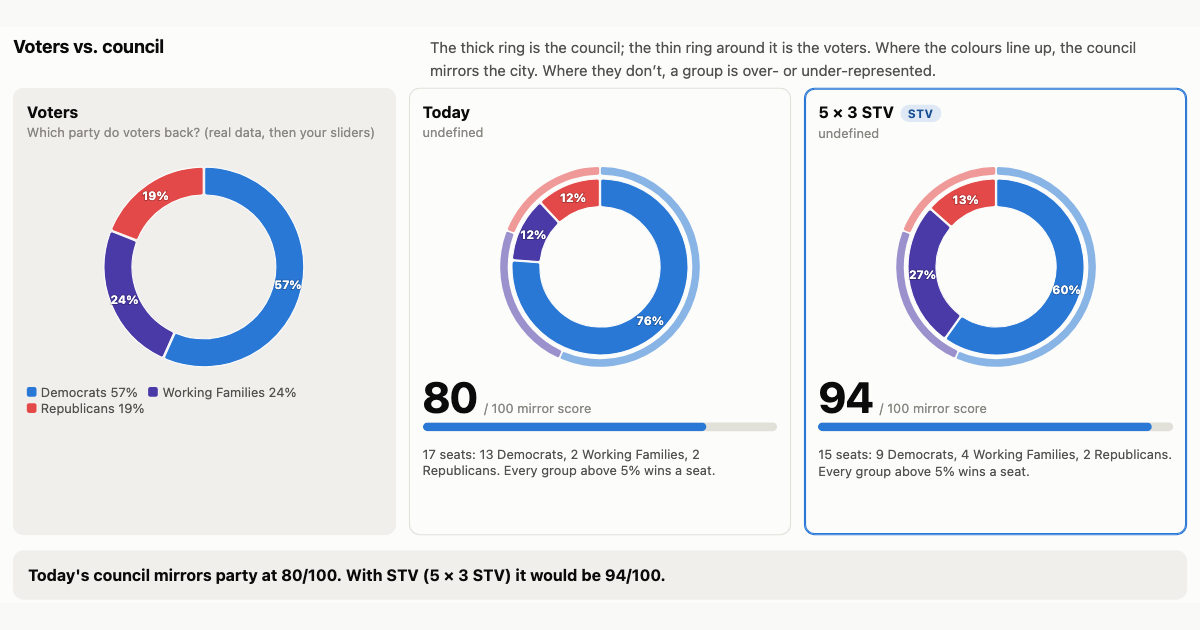
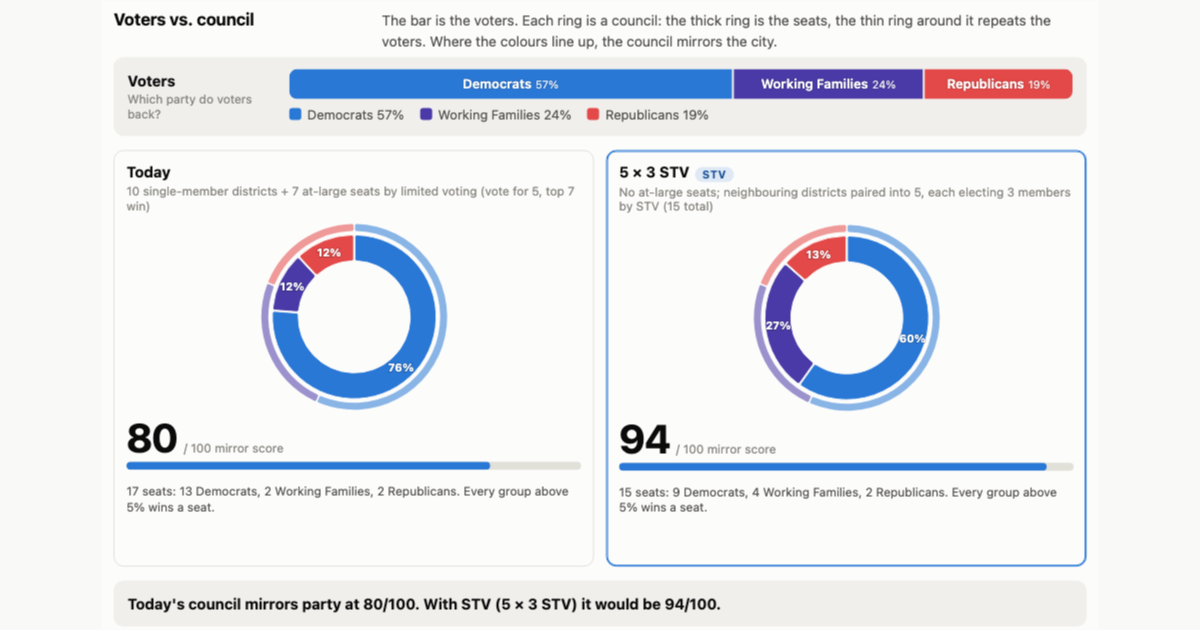
animate and make interaction easier

Changed region(s): [[0.0, 0.0302, 1.0, 0.9952], [0.0, 0.0, 0.2158, 0.0905], [0.8942, 0.2413, 0.925, 0.2714]]

diff --git a/site/src/main.js b/site/src/main.js
@@ -83,7 +83,7 @@ function methodCards(el, selected, onChange) {
     const contests = sys.build();
     const districtSeats = contests.filter(c => c.districts.length < 10).reduce((n, c) => n + c.seats, 0);
     const atLarge = contests.filter(c => c.districts.length === 10).reduce((n, c) => n + c.seats, 0);
-    const b = document.createElement('button'); b.className = 'method-card'; b.type = 'button';
+    const b = document.createElement('button'); b.className = 'method-card'; b.type = 'button'; b.dataset.toggle = `system:${sys.id}`;
     const on = selected.includes(sys.id); b.setAttribute('aria-pressed', String(on));
     const seatsText = atLarge ? `${districtSeats} district seats + ${atLarge} at-large = ${districtSeats + atLarge} members` : `${districtSeats} members, all from districts`;
     const bars = contests.map(c => `<i class="${c.method === 'stv' ? 'stv' : ''}" style="flex:${c.seats}" title="${c.name}: ${c.seats} seat${c.seats > 1 ? 's' : ''} (${c.method === 'stv' ? 'ranked choice' : c.method === 'limited' ? 'vote for 5, top 7 win' : 'winner takes all'})"></i>`).join('');
@@ -100,7 +100,7 @@ function methodCards(el, selected, onChange) {
 function toggleChips(el, items, selected, onChange, { minOne = true } = {}) {
   el.innerHTML = '';
   for (const it of items) {
-    const b = document.createElement('button'); b.className = 'chip'; b.type = 'button'; b.textContent = it.label; b.title = it.title || '';
+    const b = document.createElement('button'); b.className = 'chip'; b.type = 'button'; b.textContent = it.label; b.title = it.title || ''; b.dataset.toggle = `chart:${it.id}`;
     const on = selected.includes(it.id); b.setAttribute('aria-pressed', String(on));
     b.addEventListener('click', () => {
       let next = on ? selected.filter(x => x !== it.id) : items.map(i => i.id).filter(id => id === it.id || selected.includes(id));
@@ -109,6 +109,48 @@ function toggleChips(el, items, selected, onChange, { minOne = true } = {}) {
     });
     el.appendChild(b);
   }
+}
+
+/* ---- change feedback: fly a new card/chart out of the button that created it, and back into it when removed ---- */
+const reduceMotion = () => window.matchMedia('(prefers-reduced-motion: reduce)').matches;
+const targetFor = (kind, id) => kind === 'system' ? document.querySelector(`#viz-headline .card[data-system="${id}"]`) || document.querySelector('#results') : document.querySelector(`#viz-${id}`);
+const buttonFor = (kind, id) => document.querySelector(`[data-toggle="${kind}:${id}"]`);
+function flyIn(kind, id) {
+  const to = targetFor(kind, id), from = buttonFor(kind, id);
+  if (!to || !from || reduceMotion()) return;
+  const a = from.getBoundingClientRect(), b = to.getBoundingClientRect();
+  if (b.width === 0) return;
+  to.animate([
+    { transform: `translate(${a.left - b.left}px, ${a.top - b.top}px) scale(${Math.max(0.05, a.width / b.width)}, ${Math.max(0.05, a.height / b.height)})`, opacity: 0.2 },
+    { transform: 'none', opacity: 1 },
+  ], { duration: 520, easing: 'cubic-bezier(.2,.8,.2,1)' });
+  to.style.transformOrigin = 'top left';
+}
+function flyOut(kind, id) {
+  const el = targetFor(kind, id), from = buttonFor(kind, id);
+  if (!el || !from || reduceMotion()) return;
+  const b = el.getBoundingClientRect(), a = from.getBoundingClientRect();
+  const clone = el.cloneNode(true); clone.classList.add('fly-clone');
+  Object.assign(clone.style, { left: b.left + 'px', top: b.top + 'px', width: b.width + 'px', height: b.height + 'px', margin: 0 });
+  document.body.appendChild(clone);
+  clone.animate([
+    { transform: 'none', opacity: 1 },
+    { transform: `translate(${a.left - b.left}px, ${a.top - b.top}px) scale(${Math.max(0.05, a.width / b.width)}, ${Math.max(0.05, a.height / b.height)})`, opacity: 0 },
+  ], { duration: 420, easing: 'cubic-bezier(.4,0,.8,.4)' }).onfinish = () => clone.remove();
+}
+function pulseResults() {
+  const p = document.querySelector('#results'); if (!p || reduceMotion()) return;
+  p.classList.remove('pulse'); void p.offsetWidth; p.classList.add('pulse');
+}
+function applySelection(kind, next) {
+  const key = kind === 'system' ? 'systems' : 'charts';
+  const prev = state[key];
+  const removed = prev.filter(id => !next.includes(id)), added = next.filter(id => !prev.includes(id));
+  for (const id of removed) flyOut(kind, id);
+  state[key] = next;
+  render({ controls: false });
+  for (const id of added) flyIn(kind, id);
+  pulseResults();
 }
 
 let rafId = 0, cityCtl = null, districtCtl = null;
@@ -122,10 +164,10 @@ const handlers = {
 function render({ controls = true } = {}) {
   const ctx = context();
   writeHash();
-  methodCards($('#system-chips'), state.systems, next => { state.systems = next; render({ controls: false }); });
-  toggleChips($('#chart-chips'), allViz().map(v => ({ id: v.id, label: v.title })), state.charts, next => { state.charts = next; render({ controls: false }); });
+  methodCards($('#system-chips'), state.systems, next => applySelection('system', next));
+  toggleChips($('#chart-chips'), allViz().map(v => ({ id: v.id, label: v.title })), state.charts, next => applySelection('chart', next));
   if (controls) {
-    renderTypeChips($('#type-chips'), state, id => { loadType(id); render(); });
+    renderTypeChips($('#type-chips'), state, id => { loadType(id); render(); pulseResults(); });
     $('#type-note').textContent = ctx.inputType.note || '';
     cityCtl = mountCityControls($('#city-controls'), ctx, handlers);
     districtCtl = mountDistrictControls($('#district-controls'), ctx, handlers);

diff --git a/site/src/styles.css b/site/src/styles.css
@@ -57,8 +57,8 @@ a { color: var(--accent-ink); }
 /* composition bar + sliders */
 .city-controls { display: grid; gap: 14px; }
 .comp-bar { display: flex; height: 34px; border-radius: 8px; overflow: hidden; gap: 2px; background: var(--surface); }
-.comp-bar .seg { display: grid; place-items: center; color: #fff; font-size: 13px; font-weight: 600; min-width: 0; overflow: hidden; white-space: nowrap; text-shadow: 0 0 2px rgba(0,0,0,.35); transition: flex .15s; }
-.comp-bar .seg small { font-weight: 400; opacity: .9; margin-left: 4px; }
+.comp-bar .seg { container-type: inline-size; display: flex; align-items: center; justify-content: center; gap: 4px; color: #fff; font-size: 13px; font-weight: 600; min-width: 0; overflow: hidden; white-space: nowrap; text-shadow: 0 0 2px rgba(0,0,0,.35); transition: flex .15s; }
+.comp-bar .seg small { font-weight: 400; opacity: .9; }
 .slider-grid { display: grid; grid-template-columns: repeat(auto-fit, minmax(230px, 1fr)); gap: 10px 22px; }
 .slider-row { display: grid; grid-template-columns: 14px 1fr 3.2em; align-items: center; gap: 10px; font-size: 14px; }
 .slider-row .swatch { width: 14px; height: 14px; border-radius: 4px; }
@@ -186,3 +186,35 @@ select.sel { font: inherit; font-size: 14px; padding: 4px 8px; border-radius: 8p
 .seatbar-key { margin: -6px 0 12px; }
 .seatbar-key i.k { display: inline-block; width: 18px; height: 8px; border-radius: 2px; background: var(--axis); vertical-align: middle; }
 .seatbar-key i.k.stv { background: var(--accent); }
+
+/* two-column layout: controls stay in view on the left while results update on the right */
+@media (min-width: 1100px) {
+  .layout { display: grid; grid-template-columns: 400px minmax(0, 1fr); gap: 0 22px; align-items: start; max-width: 1400px; }
+  .controls-col { position: sticky; top: 0; max-height: 100vh; overflow-y: auto; padding-top: 22px; margin-top: -22px; scrollbar-width: thin; }
+  .controls-col .panel { padding: 18px 16px 14px; }
+  .controls-col h2 { font-size: 21px; }
+  .controls-col .step { width: 26px; height: 26px; font-size: 13px; }
+  .controls-col .method-cards { grid-template-columns: 1fr; gap: 8px; }
+  .controls-col .method-card { padding: 10px 12px 10px 36px; }
+  .controls-col .method-card .desc { font-size: 12.5px; }
+  .controls-col .slider-grid { grid-template-columns: 1fr; }
+  .controls-col .district-grid { grid-template-columns: 1fr; }
+  .results-col .cards { grid-template-columns: repeat(auto-fit, minmax(160px, 1fr)); }
+}
+/* change feedback */
+@keyframes results-pulse { 0% { box-shadow: 0 0 0 0 color-mix(in oklab, var(--accent) 45%, transparent); } 100% { box-shadow: 0 0 0 14px transparent; } }
+.panel.pulse { animation: results-pulse .7s ease-out; }
+.fly-clone { position: fixed; z-index: 50; pointer-events: none; transform-origin: top left; border-radius: 12px; overflow: hidden; }
+@media (prefers-reduced-motion: reduce) { .panel.pulse { animation: none; } }
+
+/* voters strip above the council cards */
+.voters-strip { display: grid; grid-template-columns: 150px minmax(0, 1fr); gap: 12px; align-items: start; margin-bottom: 14px; padding: 12px 14px; border-radius: 10px; background: var(--surface-2); }
+.voters-label b { display: block; font-size: 15px; }
+.voters-label span { font-size: 12px; color: var(--muted); line-height: 1.25; display: block; }
+.voters-bar .comp-bar { height: 30px; background: transparent; }
+.voters-bar .legend { margin-top: 6px; }
+@media (max-width: 640px) { .voters-strip { grid-template-columns: 1fr; gap: 6px; } }
+.cards { grid-template-columns: repeat(auto-fit, minmax(180px, 1fr)); }
+/* bar labels: drop the name, then the number, as a segment gets narrow */
+@container (max-width: 96px) { .comp-bar .seg .nm { display: none; } }
+@container (max-width: 34px) { .comp-bar .seg small { display: none; } }

diff --git a/site/src/viz/headline.js b/site/src/viz/headline.js
@@ -1,5 +1,6 @@
 import { registerViz, tooltip, pct } from './registry.js';
 import { surface } from './palette.js';
+import { compBar } from '../ui/controls.js';
 
 function donut(el, groups, values, colors, { size = 190, thickness = 26, label, reference } = {}) {
   const d3 = window.d3;
@@ -35,22 +36,25 @@ function donut(el, groups, values, colors, { size = 190, thickness = 26, label, 
 registerViz({
   id: 'headline', order: 10,
   title: 'Voters vs. council',
-  lede: 'The thick ring is the council; the thin ring around it is the voters. Where the colours line up, the council mirrors the city. Where they don’t, a group is over- or under-represented.',
+  lede: 'The bar is the voters. Each ring is a council: the thick ring is the seats, the thin ring around it repeats the voters. Where the colours line up, the council mirrors the city.',
   render(el, ctx) {
     const { groups, colors, city, results, inputType, totalPeople } = ctx;
+    // voters: one full-width bar (same as the slider bar in step 2), clearly not a council
+    const strip = document.createElement('div'); strip.className = 'voters-strip';
+    const lab = document.createElement('div'); lab.className = 'voters-label';
+    lab.innerHTML = `<b>Voters</b><span>${inputType.question}</span>`;
+    const barWrap = document.createElement('div'); barWrap.className = 'voters-bar';
+    barWrap.appendChild(compBar(groups, city, colors));
+    const keys = document.createElement('div'); keys.className = 'legend';
+    keys.innerHTML = groups.map(g => `<span class="key"><i style="background:${colors[g]}"></i>${g} ${pct(city[g])}</span>`).join('');
+    barWrap.appendChild(keys);
+    strip.append(lab, barWrap);
+    el.appendChild(strip);
     const cards = document.createElement('div'); cards.className = 'cards';
-    // voters
-    const vc = document.createElement('div'); vc.className = 'card voters';
-    vc.innerHTML = `<h4>Voters</h4><div class="sub">${inputType.question} (real data, then your sliders)</div>`;
-    donut(vc, groups, city, colors, { label: '' });
-    const vl = document.createElement('div'); vl.className = 'foot';
-    vl.innerHTML = groups.map(g => `<span style="white-space:nowrap"><i style="display:inline-block;width:9px;height:9px;border-radius:2px;background:${colors[g]};margin-right:4px"></i>${g} ${pct(city[g])}</span>`).join(' &nbsp; ');
-    vc.appendChild(vl);
-    cards.appendChild(vc);
     const best = Math.max(...results.filter(r => r.system.stv).map(r => r.metrics.match), -1);
     for (const r of results) {
-      const c = document.createElement('div'); c.className = 'card' + (r.system.stv && r.metrics.match === best ? ' best' : '');
-      c.innerHTML = `<h4>${r.system.short}${r.system.stv ? '<span class="stv-tag">STV</span>' : ''}</h4><div class="sub">${r.system.summary}</div>`;
+      const c = document.createElement('div'); c.className = 'card' + (r.system.stv && r.metrics.match === best ? ' best' : ''); c.dataset.system = r.system.id;
+      c.innerHTML = `<h4>${r.system.short}${r.system.stv ? '<span class="stv-tag">STV</span>' : ''}</h4><div class="sub">${r.system.summary ?? r.system.detail ?? ''}</div>`;
       const seatCounts = Object.fromEntries(groups.map(g => [g, r.seats[g]]));
       donut(c, groups, seatCounts, colors, { label: 'seats', reference: city });
       const score = document.createElement('div'); score.className = 'score';

diff --git a/site/src/viz/seats.js b/site/src/viz/seats.js
@@ -39,7 +39,9 @@ registerViz({
       m.innerHTML = `<h4>${r.system.short}${r.system.stv ? '<span class="stv-tag">STV</span>' : ''}</h4><p class="sub">${r.totalSeats} seats · mirror score ${r.metrics.match}</p>`;
       const W = 220; const { pts, dot, height } = hemicycle(r.totalSeats, W);
       const seatList = groups.flatMap(g => Array(r.seats[g]).fill(g));
-      const svg = d3.select(m).append('svg').attr('viewBox', `0 0 ${W} ${height}`).attr('role', 'img');
+      // pad the viewBox by one dot radius so the outer seats are never clipped
+      const pad = dot + 2;
+      const svg = d3.select(m).append('svg').attr('viewBox', `${-pad} ${-pad} ${W + 2 * pad} ${height + pad}`).attr('role', 'img');
       svg.selectAll('circle').data(pts.map((p, i) => ({ ...p, g: seatList[i] }))).join('circle')
         .attr('cx', d => d.x).attr('cy', d => d.y).attr('r', dot).attr('fill', d => colors[d.g]).attr('stroke', 'var(--surface)').attr('stroke-width', 1.5)
         .on('mousemove', (ev, d) => tip.show(`<b>${d.g}</b> seat · ${r.seats[d.g]} of ${r.totalSeats} (${pct(r.seats[d.g] / r.totalSeats)}); voters ${pct(city[d.g], 1)}`, ev)).on('mouseleave', () => tip.hide());

diff --git a/site/src/ui/controls.js b/site/src/ui/controls.js
@@ -13,7 +13,7 @@ export function renderTypeChips(el, state, onSelect) {
   }
 }
 
-function compBar(groups, shares, colors, showLabels = true) {
+export function compBar(groups, shares, colors, showLabels = true) {
   const bar = document.createElement('div'); bar.className = 'comp-bar';
   for (const g of groups) {
     const seg = document.createElement('div'); seg.className = 'seg'; seg.dataset.group = g; seg.style.background = colors[g];
@@ -27,7 +27,7 @@ function updateCompBar(bar, groups, shares, showLabels) {
     const g = seg.dataset.group, v = Math.max(shares[g], 0);
     seg.style.flex = `${v} 0 0`; seg.title = `${g}: ${pct(v, 1)}`;
     if (!showLabels) continue;
-    seg.innerHTML = v > 0.08 ? `${g}<small>${pct(v)}</small>` : v > 0.04 ? `<small>${pct(v)}</small>` : '';
+    seg.innerHTML = `<span class="nm">${g}</span><small>${pct(v)}</small>`; // visibility is decided by segment width in CSS
   }
 }
 

diff --git a/site/src/viz/map.js b/site/src/viz/map.js
@@ -17,7 +17,7 @@ registerViz({
     const byDistrict = Object.fromEntries(GEO.features.map(f => [f.properties.district, f]));
     for (const r of results) {
       const m = document.createElement('div'); m.className = 'multiple';
-      m.innerHTML = `<h4>${r.system.short}${r.system.stv ? '<span class="stv-tag">STV</span>' : ''}</h4><p class="sub">${r.system.summary}</p>`;
+      m.innerHTML = `<h4>${r.system.short}${r.system.stv ? '<span class="stv-tag">STV</span>' : ''}</h4><p class="sub">${r.system.summary ?? r.system.detail ?? ''}</p>`;
       const svg = d3.select(m).append('svg').attr('viewBox', `0 0 ${W} ${H + 26}`).attr('role', 'img');
       const districtContests = r.contests.filter(c => c.districts.length < 10);
       const fillFor = {}; // district -> colour when single winner

diff --git a/scripts/browser.js b/scripts/browser.js
@@ -18,6 +18,7 @@ export async function launch({ port = 9333, width = 1280, height = 900 } = {}) {
   ws.onmessage = (m) => { const msg = JSON.parse(m.data); if (msg.id && pending.has(msg.id)) { pending.get(msg.id)(msg); pending.delete(msg.id); } else if (msg.method) events.push(msg); };
   const send = (method, params = {}) => new Promise(res => { const i = ++id; pending.set(i, res); ws.send(JSON.stringify({ id: i, method, params })); });
   await send('Page.enable'); await send('Runtime.enable');
+  await send('Network.enable'); await send('Network.setCacheDisabled', { cacheDisabled: true }); // always render the current files
   return {
     events,
     async goto(url, { settle = 600 } = {}) {

diff --git a/site/index.html b/site/index.html
@@ -35,7 +35,8 @@
   </div>
 </header>
 
-<main class="wrap">
+<main class="wrap layout">
+<div class="controls-col">
   <section id="compare" class="panel">
     <div class="section-head">
       <h2><span class="step">1</span> What do you want to see?</h2>
@@ -66,6 +67,8 @@
     </div>
   </section>
 
+</div>
+<div class="results-col">
   <section id="results" class="panel">
     <div class="section-head">
       <h2><span class="step">3</span> Who wins?</h2>
@@ -98,6 +101,7 @@
     <div id="sources-root" class="sources"></div>
     </div>
   </section>
+</div>
 </main>
 
 <footer class="wrap foot">

diff --git a/scripts/social.js b/scripts/social.js
@@ -10,7 +10,8 @@ await new Promise(r => setTimeout(r, 700));
 const b = await launch({ width: 1200, height: 900 });
 try {
   // 1. Social preview: the "Voters vs council" block for the default (party) view, light theme.
-  await b.setViewport(1200, 900);
+  // Rendered below the two-column breakpoint so the block spans the full width.
+  await b.setViewport(1060, 900);
   await b.goto(`http://localhost:${port}/#type=party&theme=light`);
   const rect = await b.eval(`(() => {
     const el = document.querySelector('#viz-headline'); el.scrollIntoView();
